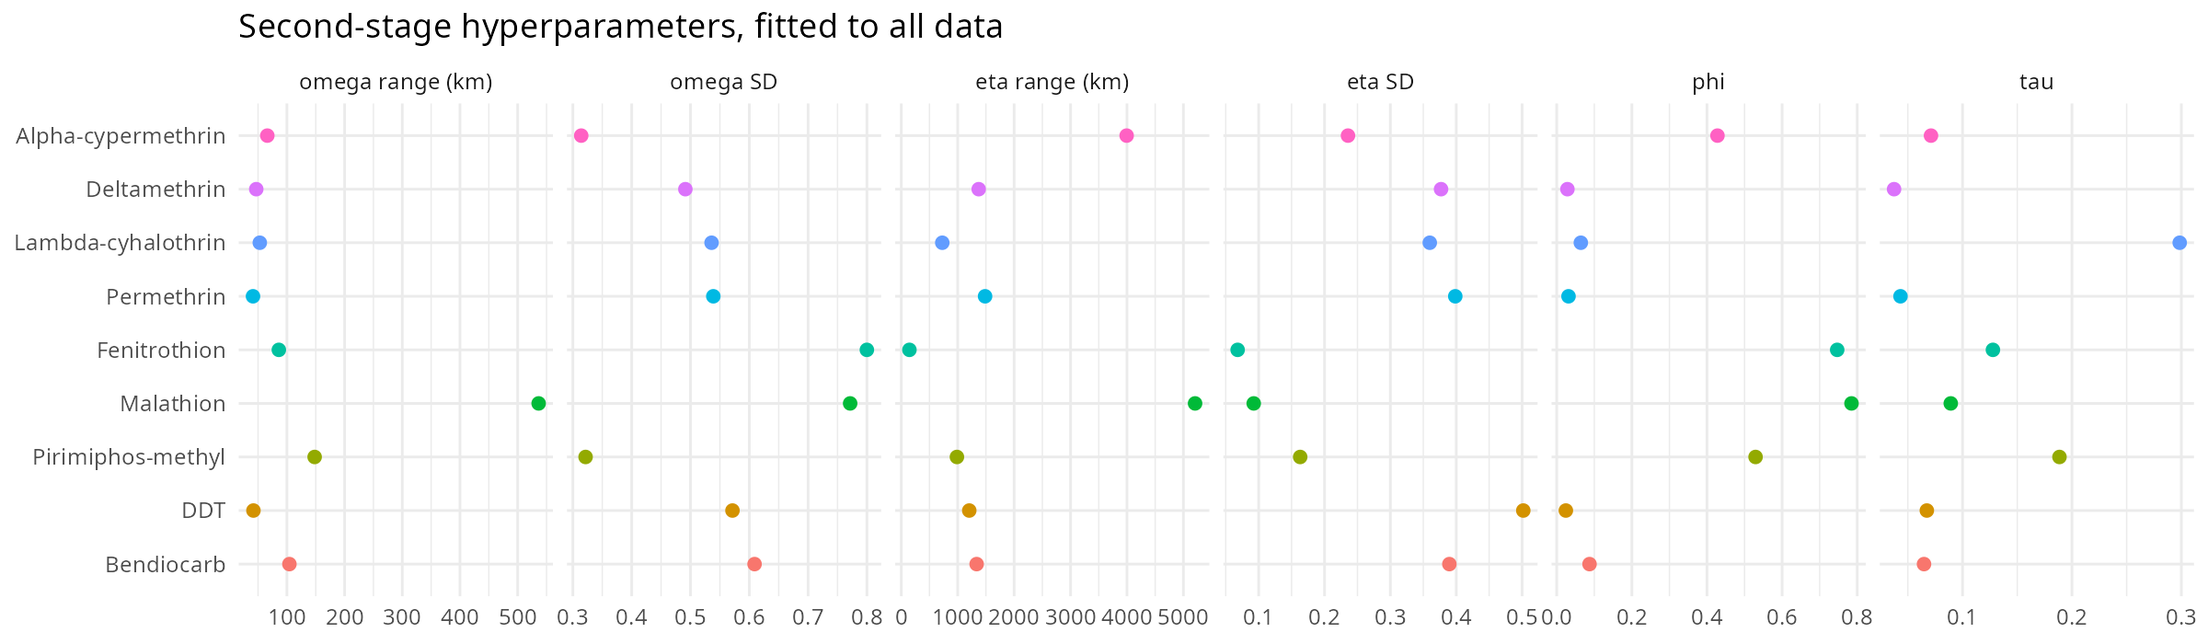
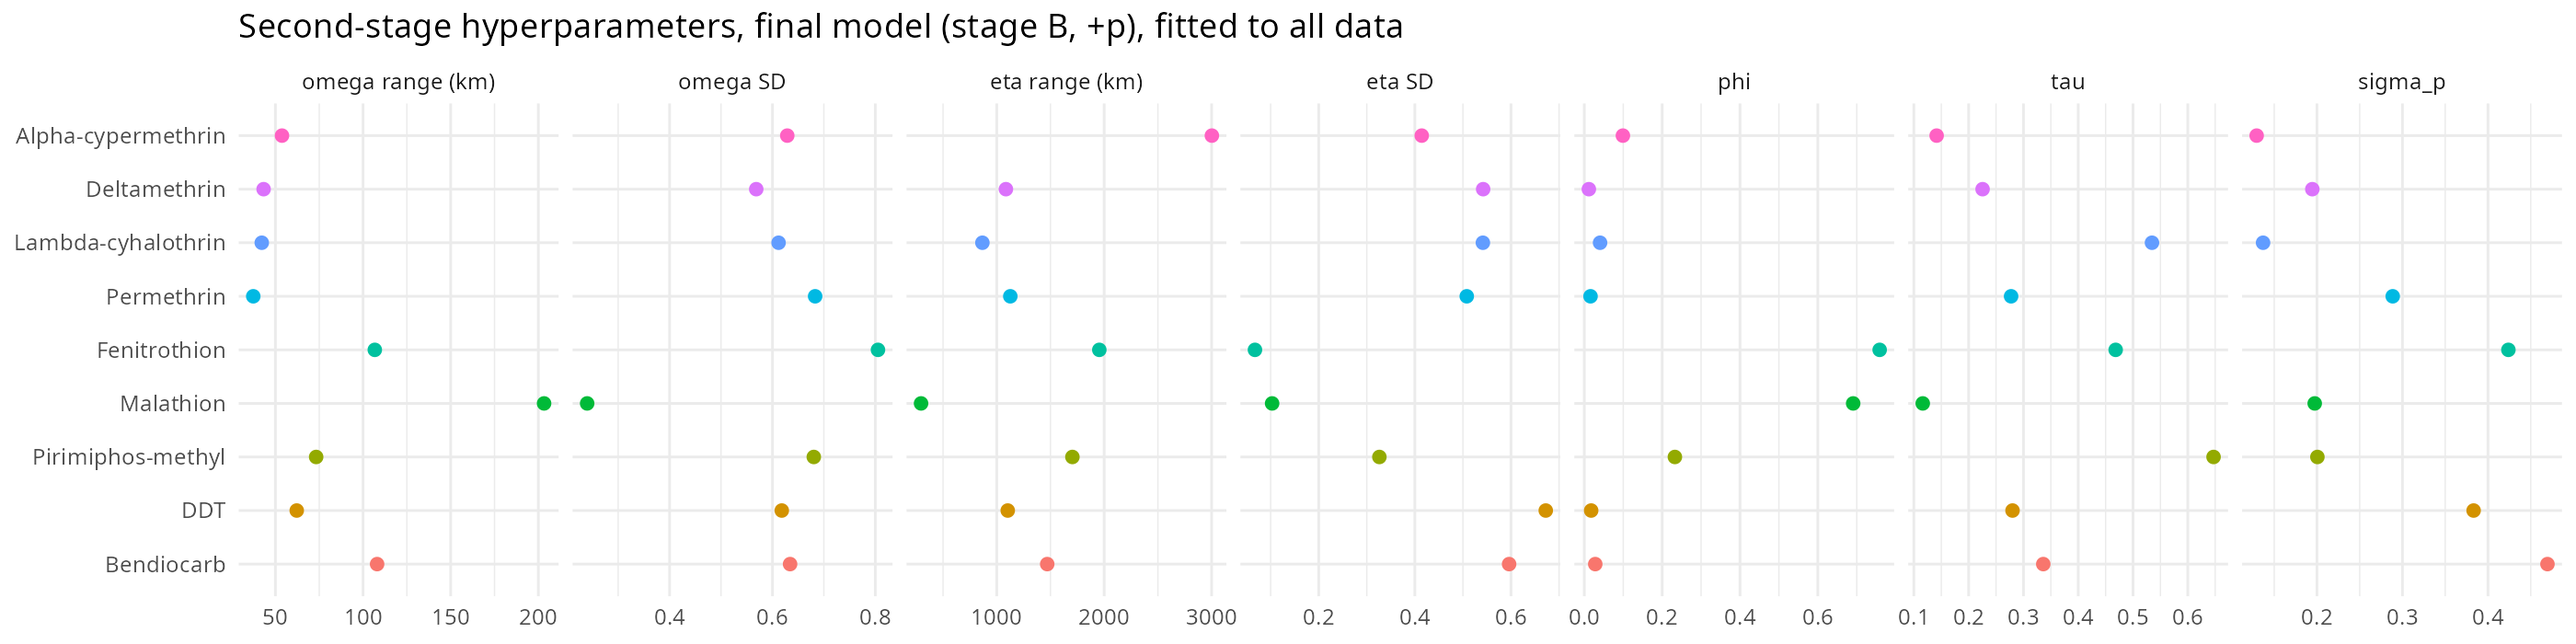
adopt stage B with a per-pixel nugget as the final model; redo maps and headline results
Claude-Session: https://claude.ai/code/session_01CjrdVhjdcetHE493iW7RyH

diff --git a/doc/two_stage_plan.md b/doc/two_stage_plan.md
@@ -1,5 +1,62 @@
 # Two-stage correction: run sheet
 
+## Final model and headline results
+
+**Final model.** Stage B (PQL on the beta-binomial counts, `R/two_stage_pql.R`) of `omega_xi_u` plus the static per-pixel effect p (`terms=p`); no survey effect s. Meshes omega5000_xi2500; `m_ref` = dynamical posterior mean logit; per-type ρ.
+- λ = m_ref + ω + ξ + u + p. Held-out draws: joint latent draw, p from its posterior at pixels with training data and fresh N(0, σ_p²) elsewhere. Model `two_stage_omega_xi_u_p_pql_mesh-omega5000_xi2500`.
+- Maps (`R/two_stage_maps.R`): the smooth correction ω + ξ only; u and p are left out of the mean and SD maps.
+- The survey-effect code stays as an option (`terms=p,s`); it is not in the final model.
+
+Headline (`outputs/two_stage/cv_headline_two_stage.csv`, `figures/two_stage/`). Log score: mean beta-binomial log predictive density; CRPS on the mortality scale; 95% pixel-bootstrap intervals. NN = nearest recent survey (k = 1); NN oracle = nearest surveys at the k minimising held-out error.
+
+**Interpolation** (n = 1045; ceiling 78.1%)
+
+| model | log score | CRPS | variance explained (%) | cover 50 / 95 |
+|---|---|---|---|---|
+| dynamical | −3.863 | 0.1355 | 37.0 [25.2, 45.5] | 0.298 / 0.786 |
+| intercept | −4.235 | 0.1496 | 27.0 [22.2, 30.2] | 0.306 / 0.721 |
+| NN (k = 1) | −4.011 | 0.1356 | 33.7 [21.0, 43.8] | 0.342 / 0.776 |
+| NN oracle | −3.614 | 0.1108 | 52.0 [42.8, 59.4] | 0.391 / 0.833 |
+| stage A ω+ξ+u | −3.568 | 0.1135 | 52.1 [42.9, 59.2] | 0.364 / 0.859 |
+| **final** | **−3.372** | **0.1026** | **57.2 [49.4, 63.6]** | 0.446 / 0.923 |
+
+**Blocks 1+2 pooled** (n = 8694; ceiling 79.3%)
+
+| model | log score | CRPS | variance explained (%) | cover 50 / 95 |
+|---|---|---|---|---|
+| dynamical | −4.329 | 0.1587 | 22.7 [18.0, 27.2] | 0.292 / 0.736 |
+| intercept | −4.587 | 0.1640 | 19.3 [17.0, 21.2] | 0.304 / 0.709 |
+| NN (k = 1) | −4.679 | 0.1686 | 13.8 [7.1, 19.9] | 0.293 / 0.691 |
+| NN oracle | −4.190 | 0.1415 | 34.1 [29.1, 38.6] | 0.323 / 0.752 |
+| stage A ω+ξ+u | −3.724 | 0.1335 | 37.4 [32.8, 41.5] | 0.401 / 0.878 |
+| **final** | **−3.661** | **0.1325** | 37.0 [32.6, 41.3] | 0.441 / 0.911 |
+
+**Forecasting 2014+2018 pooled** (n = 14018; ceiling 81.9%)
+
+| model | log score | CRPS | variance explained (%) | cover 50 / 95 |
+|---|---|---|---|---|
+| dynamical | −4.361 | 0.1620 | 26.2 [20.9, 31.4] | 0.311 / 0.732 |
+| intercept | −4.706 | 0.1847 | 13.4 [10.5, 15.7] | 0.268 / 0.663 |
+| NN (k = 1) | −4.323 | 0.1549 | 29.8 [26.0, 33.6] | 0.310 / 0.731 |
+| NN oracle | −3.869 | **0.1281** | **48.3 [45.8, 50.8]** | 0.331 / 0.788 |
+| stage A ω+ξ+u | −3.744 | 0.1438 | 35.1 [30.6, 39.7] | 0.408 / 0.856 |
+| **final** | **−3.615** | 0.1314 | 42.7 [38.7, 46.7] | 0.457 / 0.899 |
+
+**Final − dynamical**, 95% paired pixel bootstrap:
+
+| experiment | Δ log score | Δ CRPS (×10⁻³) | Δ variance explained (points) |
+|---|---|---|---|
+| interpolation | +0.492 [+0.369, +0.630] | −32.8 [−41.4, −23.9] | +20.2 [+13.8, +28.6] |
+| blocks 1+2 | +0.668 [+0.598, +0.738] | −26.3 [−30.4, −22.3] | +14.4 [+11.8, +17.1] |
+| forecasting 2014+2018 | +0.746 [+0.672, +0.819] | −30.6 [−34.4, −26.5] | +16.6 [+14.0, +19.1] |
+| forecasting 2014 | +0.773 [+0.690, +0.864] | −30.0 [−34.7, −25.4] | +17.6 [+14.6, +21.0] |
+| forecasting 2018 | +0.679 [+0.589, +0.781] | −32.2 [−38.1, −26.5] | +15.5 [+12.2, +19.0] |
+
+- Best log score on every experiment. Variance explained: above the NN oracle on interpolation (+5) and blocks (+3), below it on forecasting (−6).
+- 95% coverage 0.90–0.92; every other model 0.66–0.88.
+
+The rest of this document is the record of how the final model was reached.
+
 Issue idem-lab/ir_cube#21. Stacked on the #12 branch (`posterior-predictive-validation`).
 
 ## Folds
@@ -38,7 +95,7 @@ Leave-one-country-out and the legacy 2020 forecasting fold are defunct and are n
 
 ## Further steps
 
-8. **Maps** (`R/two_stage_maps.R`). Fit `omega_xi_u` per type to all the data, on top of the full dynamical fit. Map, in the layout of the dynamical-model figures:
+8. **Maps** (`R/two_stage_maps.R`). Fit the final model (stage B, `omega_xi_u` + p) per type to all the data, on top of the full dynamical fit. Map, in the layout of the dynamical-model figures (u and p left out):
    - two-stage predicted mortality;
    - the second-stage correction (ω + ξ, logit scale);
    - the difference from the dynamical model (percentage points);
@@ -163,9 +220,9 @@ The blocks gain is in the pyrethroids, DDT and Bendiocarb, which have large ξ (
 
 **Adopted.** omega5000_xi2500 is the reported configuration for both variants and the runner's default; `mesh=base` reproduces the earlier runs, whose files keep their unsuffixed names. `fit_correction()`'s defaults are unchanged. `R/two_stage_maps.R` uses it too (`mesh_config`).
 
-## Results
+## Results (stage A)
 
-Reported configuration: `m_ref` = posterior mean, meshes omega5000_xi2500, both variants. Scored by `R/two_stage_metrics.R`: `outputs/two_stage/cv_headline_two_stage.csv`, `term_inclusion_two_stage.csv`, `cv_horizon_two_stage.csv`; figures in `figures/two_stage/`. All models at the per-type rho. Intervals: 95% pixel bootstrap. Forecasting pooled stacks both origins' test sets (years from 2018 appear in both). NN oracle: nearest-neighbour null at the k that minimises its own held-out error.
+Stage-A configuration: `m_ref` = posterior mean, meshes omega5000_xi2500, both variants. Superseded as the headline by the final model (top); these tables are the stage-A record. Scored by `R/two_stage_metrics.R`: `outputs/two_stage/cv_summary_two_stage.csv` (the headline CSV now holds the final-model set), `term_inclusion_two_stage.csv`, `cv_horizon_two_stage.csv`; figures in `figures/two_stage/`. All models at the per-type rho. Intervals: 95% pixel bootstrap. Forecasting pooled stacks both origins' test sets (years from 2018 appear in both). NN oracle: nearest-neighbour null at the k that minimises its own held-out error.
 
 **Headline.** Log score: mean beta-binomial log predictive density. Variance explained ceilings (noise floor): 78–82%.
 
@@ -204,7 +261,7 @@ Reported configuration: `m_ref` = posterior mean, meshes omega5000_xi2500, both 
 
 Two-stage ω+ξ+u minus dynamical: log score +0.295 [+0.188, +0.397] (interpolation), +0.605 [+0.541, +0.670] (blocks), +0.617 [+0.554, +0.678] (forecasting); variance explained +15.1 [+9.6, +21.5], +14.7 [+12.4, +17.2], +8.9 [+6.9, +10.9] points.
 
-- ω+ξ+u has the best log score everywhere, including over the NN oracle.
+- Among these models, ω+ξ+u has the best log score everywhere, including over the NN oracle.
 - On variance explained it ties the NN oracle on interpolation and trails it on forecasting (−13 points) and blocks (+3, intervals overlap).
 - 95% intervals of both two-stage variants undercover (0.86–0.88 on the spatial experiments, 0.86 forecasting), less than every other model (0.64–0.83).
 
@@ -295,7 +352,7 @@ Two-stage ω+ξ+u minus dynamical: log score +0.295 [+0.188, +0.397] (interpolat
 - 0% assays are now over-implied, by 31–37% (about 60–150 assays per fold, against 6,000–7,000 at 100%).
 - Interior residuals are still narrower than v implies (SD 0.70 vs 0.95). v, i.e. the per-type ρ, looks too large for the interior assays.
 
-**Recommendation: adopt stage B.** CV shows a benefit on every experiment: log score +0.06 to +0.19, and 95% coverage closer to nominal. It costs about 40 min per fold on the spatial folds. Next: use it for the maps (`R/two_stage_maps.R`, not changed here), and check the interior overdispersion (ρ).
+**Recommendation: adopt stage B** (adopted; with p, it is the final model). CV shows a benefit on every experiment: log score +0.06 to +0.19, and 95% coverage closer to nominal. It costs about 40 min per fold on the spatial folds. The maps now use it (with p). Open: the interior overdispersion (ρ).
 
 ## Error structure
 
@@ -356,4 +413,6 @@ Motivation (`R/two_stage_hotspot_diagnostics.R`, `hotspot_{nugget,covariance}.cs
 
 - p removes about 30% of the hotspots above the fixed threshold and shrinks the peaks by 10–15%; s adds little on top. At the relative (top 2%) threshold the counts barely change (46–48 vs 49; 41 vs 43), so the hotspot pattern remains, less prominent. σ_p in these fits: 0.20 (Deltamethrin), 0.29 (Permethrin).
 
-**Recommendation.** Adopt +p for maps and scoring: it is cheap, never worse, reduces hotspot prominence, and represents a real persistent local deviation. Adopt s for scoring held-out assays (fresh draw per survey) and for the variance decomposition, but keep it out of maps; its CV gain is in the predictive width, not the map. Report map-level scores (`_snone`) alongside, since they are what a map user gets. Neither term changes ω's range materially, so ω's short range is not an artefact of the missing error terms.
+**Recommendation.** Adopt +p: it is cheap, never worse, reduces hotspot prominence, and represents a real persistent local deviation. s gains only in the width of the held-out predictive distribution, not in the map. Neither term changes ω's range materially, so ω's short range is not an artefact of the missing error terms.
+
+**Decision.** The final model is stage B + p, without s (top of this document). The s code stays as an option (`terms=p,s`).
